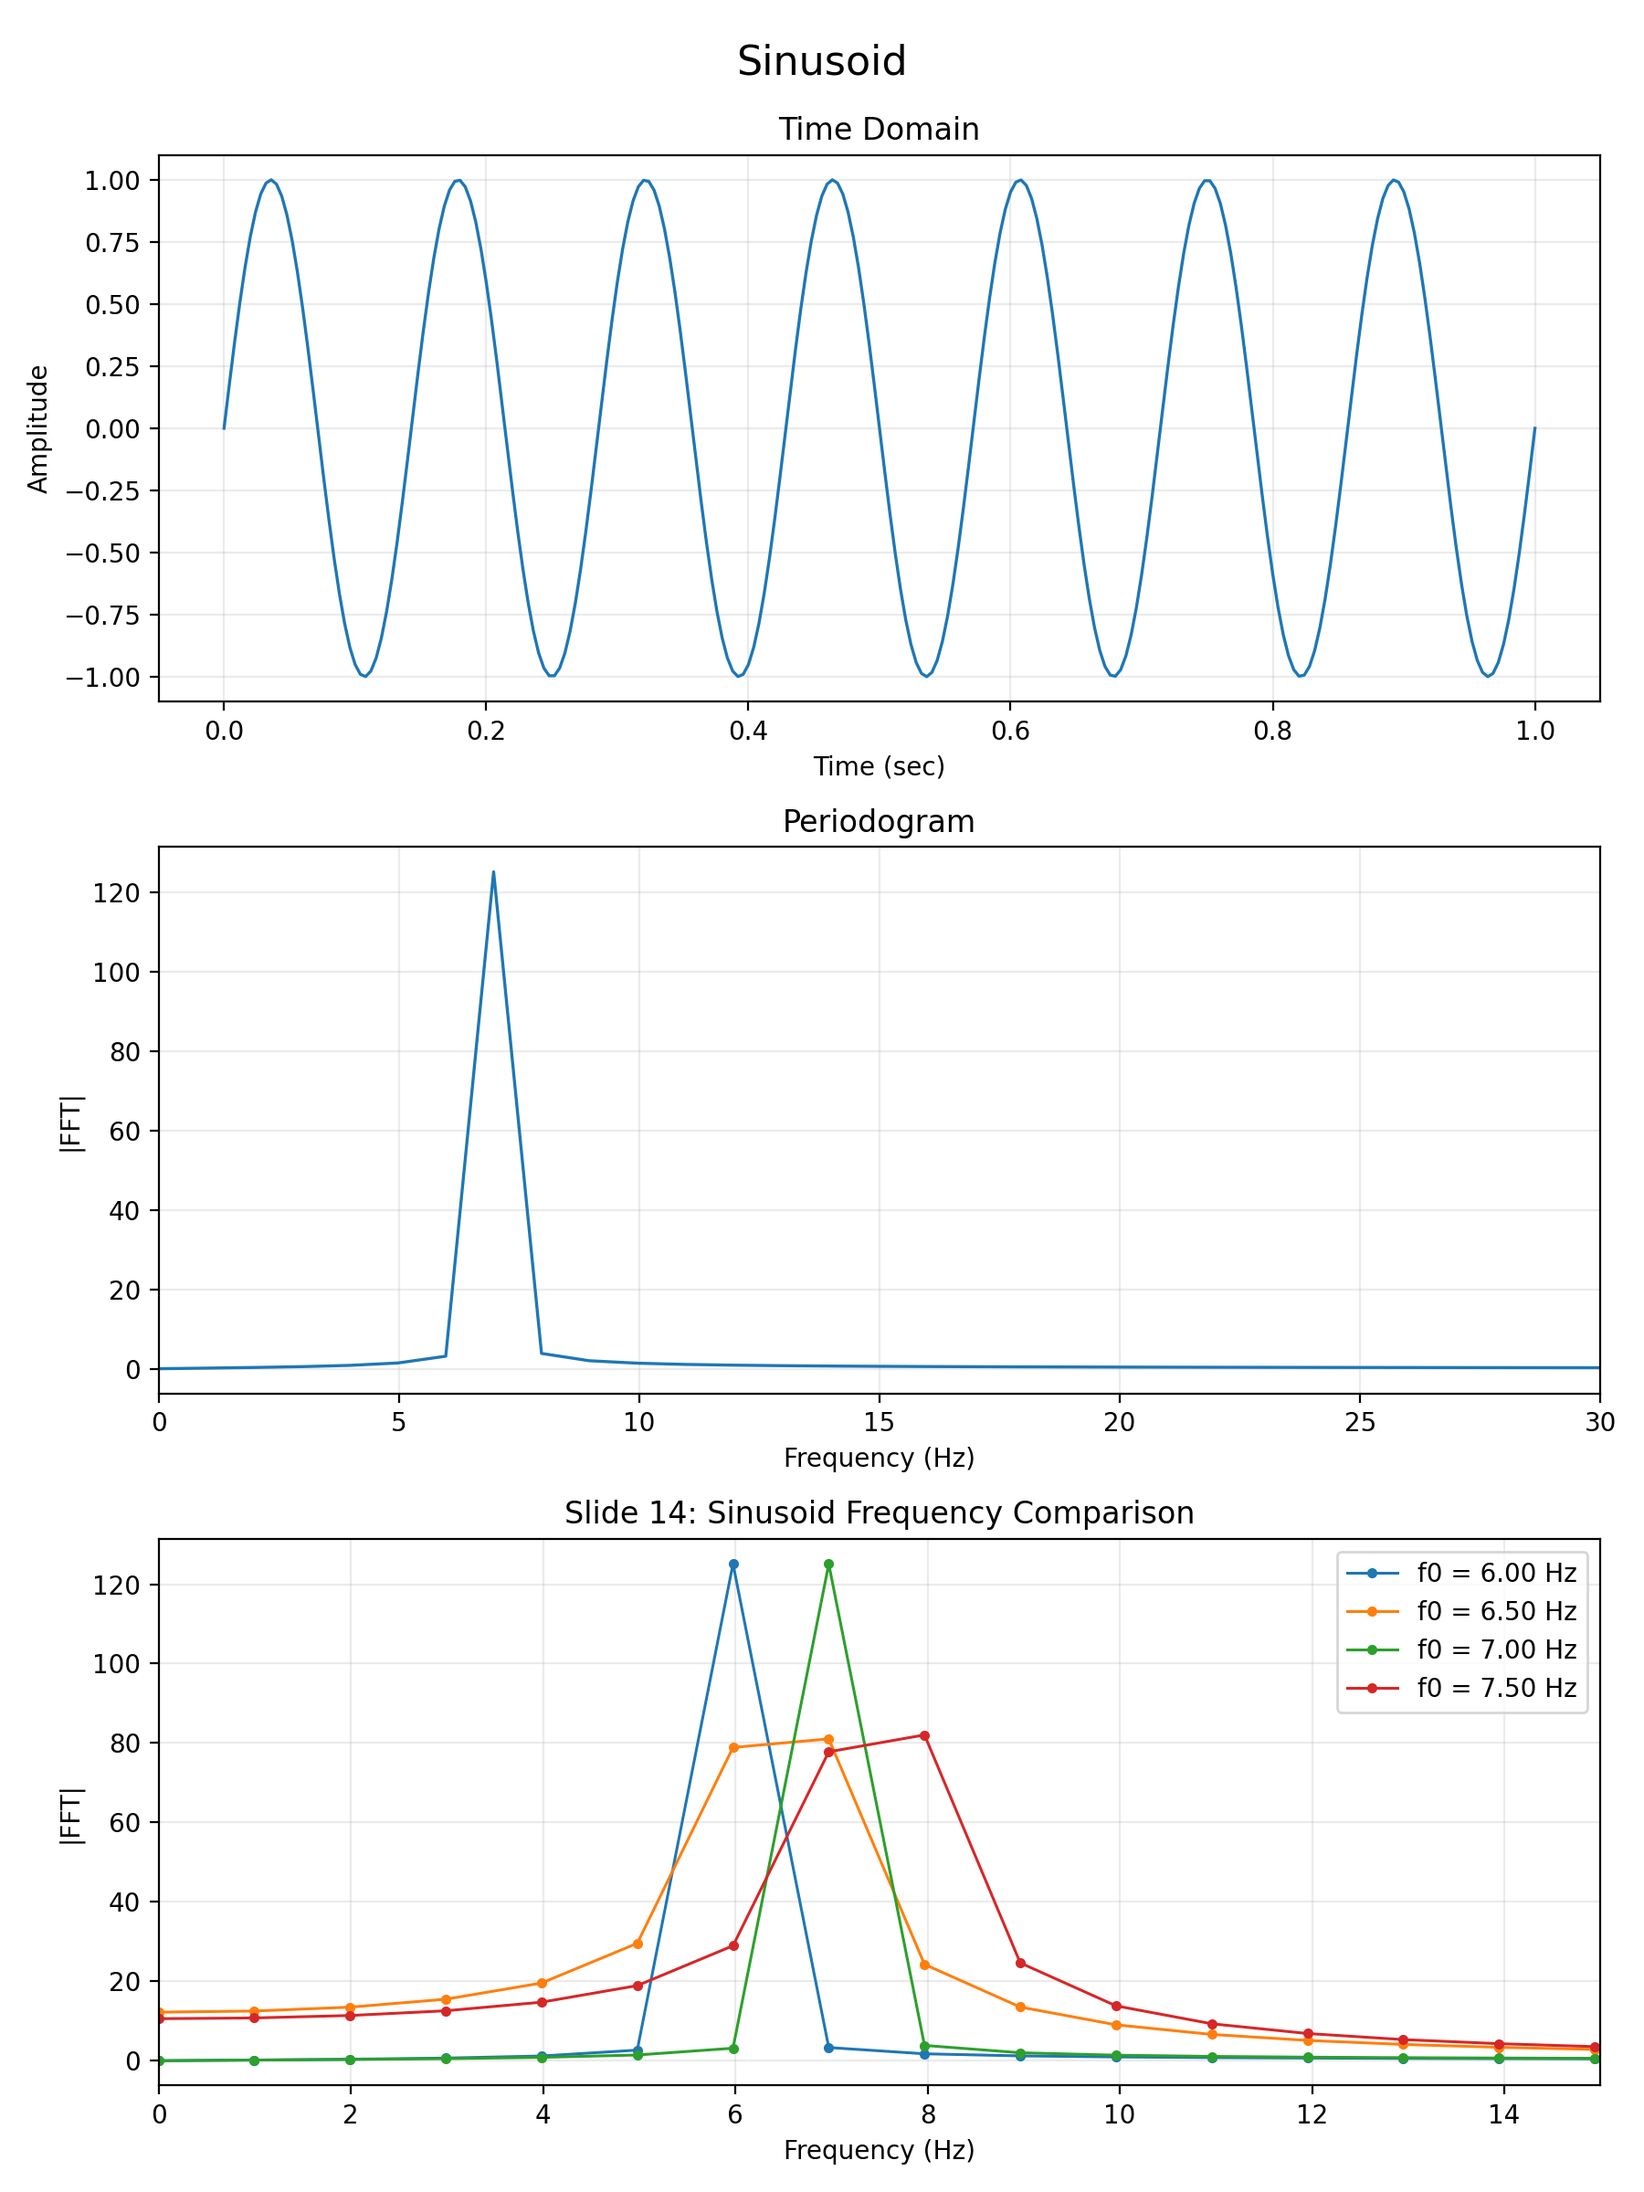
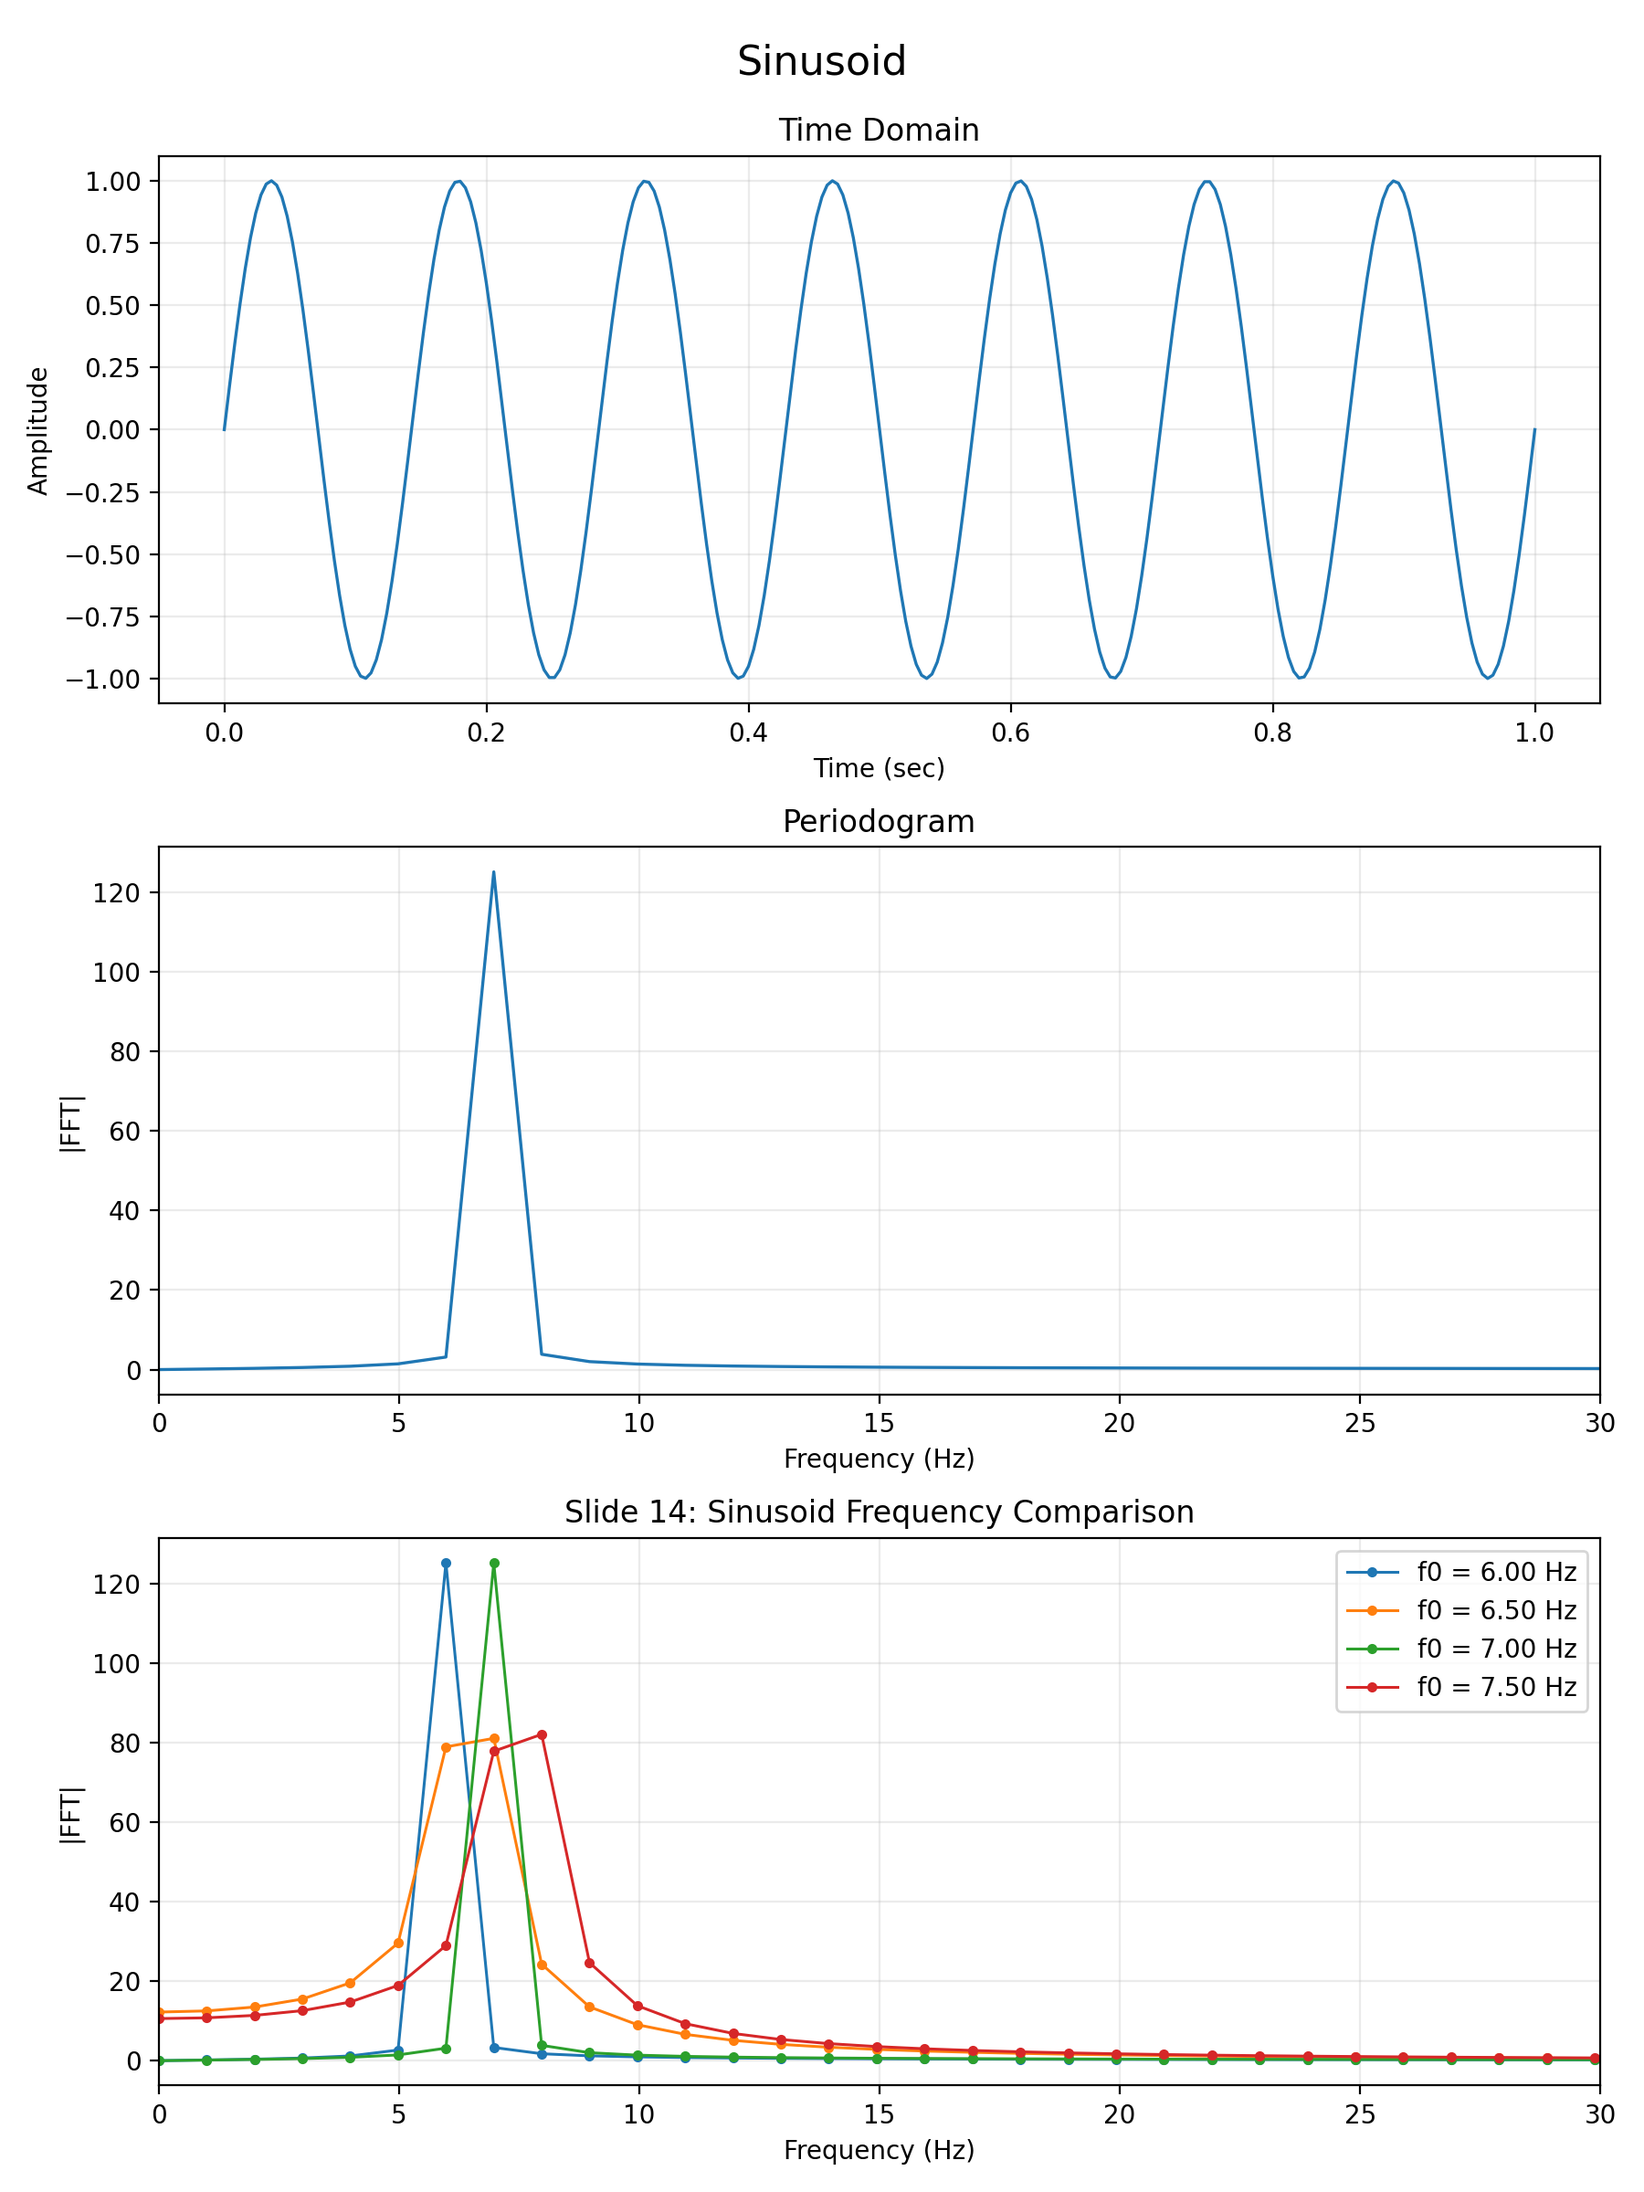
fixing the xaxis on the sinusoid plot

diff --git a/Lab1/run.py b/Lab1/run.py
@@ -155,7 +155,7 @@ for fileName, title, signalValues in signalPlots:
             stepFreq, stepFFTMag = positive_periodogram(stepSignal, samplIntrvl)
             comparisonAxis.plot(stepFreq, stepFFTMag,marker="o", markersize=3, linewidth=1.1, label=f"f0 = {f0:.2f} Hz")
 
-        comparisonAxis.set_xlim(0, 15)
+        comparisonAxis.set_xlim(0, 30)
         comparisonAxis.set_xlabel("Frequency (Hz)")
         comparisonAxis.set_ylabel("|FFT|")
         comparisonAxis.set_title("Slide 14: Sinusoid Frequency Comparison")
